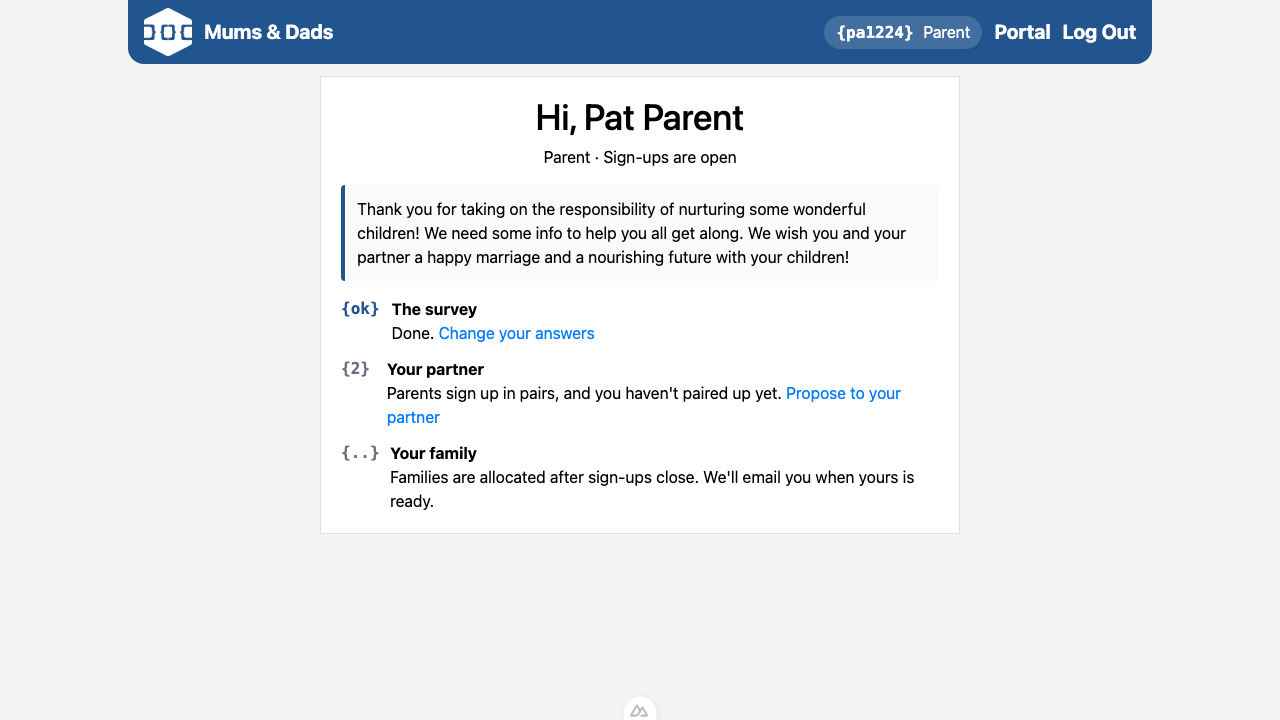
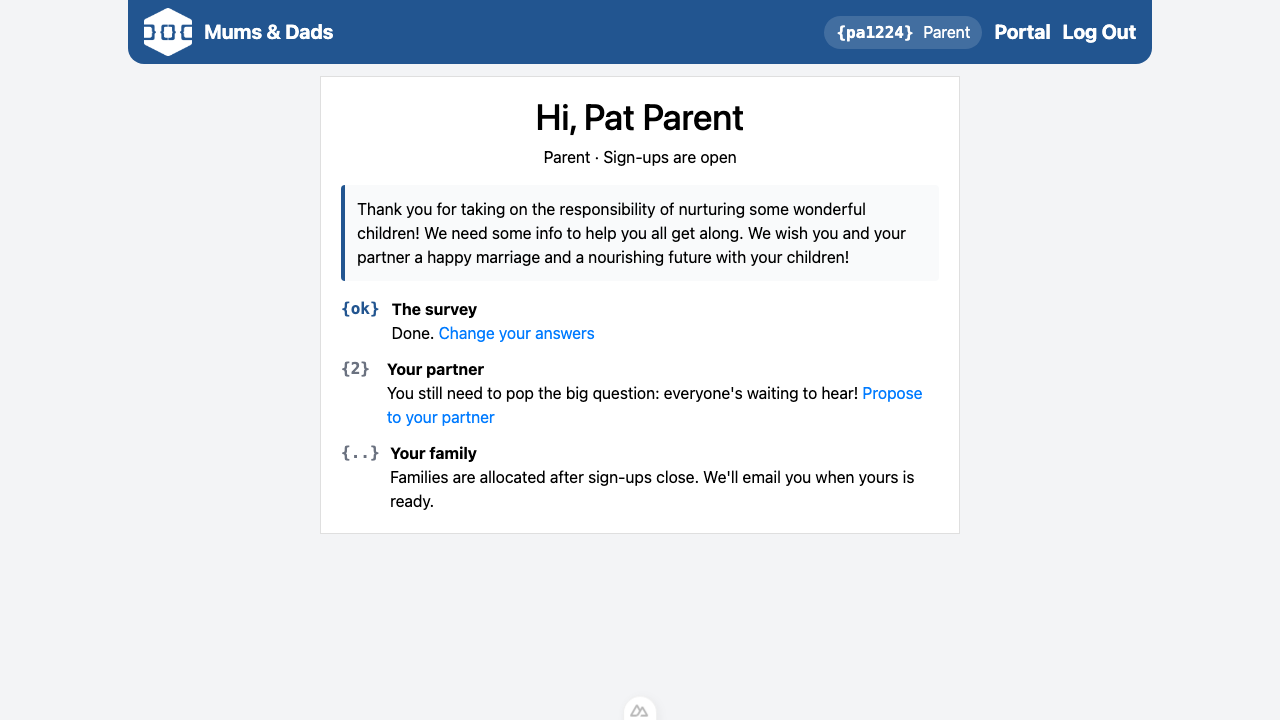
feat: nudge unpaired parents to pop the big question

Changed region(s): [[0.3125, 0.5194, 0.7188, 0.6111]]

diff --git a/app/pages/portal.vue b/app/pages/portal.vue
@@ -66,7 +66,7 @@ const hasChildren = computed(() => (family.value?.kids.length ?? 0) > 0);
             {{ partner.answers?.preferredName || partner.name }}.
           </p>
           <p v-else-if="currentState == 'open'">
-            Parents sign up in pairs, and you haven't paired up yet.
+            You still need to pop the big question: everyone's waiting to hear!
             <NuxtLink to="/proposals">Propose to your partner</NuxtLink>
           </p>
           <p v-else>You didn't pair up before sign-ups closed.</p>
